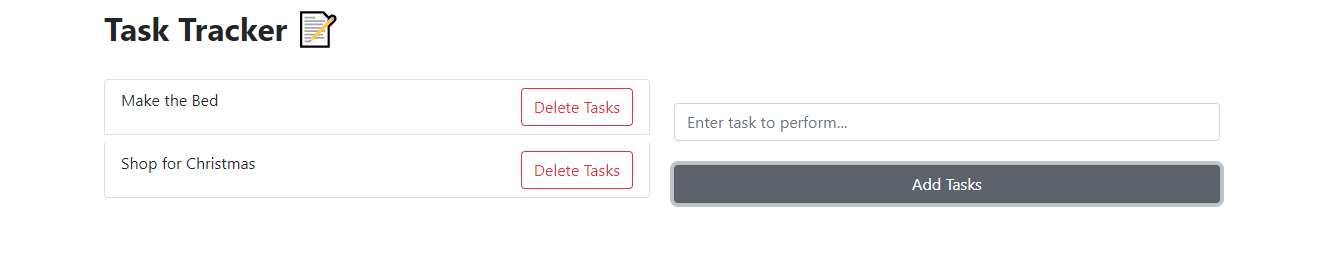
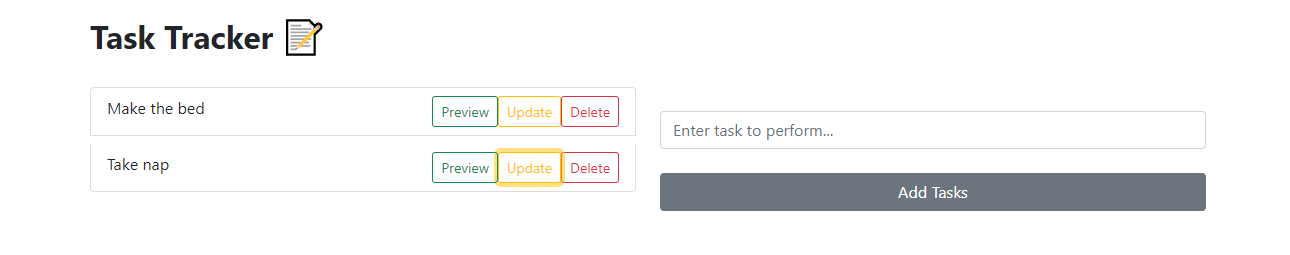
first commit

Changed region(s): [[0.062, 0.2745, 0.9612, 0.851], [0.062, 0.0275, 0.2791, 0.2196], [0.062, 0.5765, 0.2171, 0.6863]]

diff --git a/tasks/templates/unicorn/task.html b/tasks/templates/unicorn/task.html
@@ -1,9 +1,21 @@
 <div class="row">
   <div class="col-md-6">
     <section>
+      <div unicorn:loading unicorn:target="AddKey">
+        <strong>adding</strong> 
+        <div class="spinner-border"></div>
+      </div>
+
         <ul class="list-group">
           {% for task in tasks %}
-            <li class="list-group-item mb-2">{{ task.title }} <button class="btn btn-outline-danger" style="float: right;" u:click="delete_task('{{ task.id }}')">Delete Tasks</button></li> 
+            <li class="list-group-item mb-2">{{ task.title }} 
+              <button class="btn btn-outline-danger btn-sm" style="float: right;" u:click="delete_task('{{ task.id }}')">Delete </button>
+              
+              <button class="btn btn-outline-warning btn-sm" style="float: right;" u:click="update_task('{{ task.id }}')">Update </button>
+              <button class="btn btn-outline-success btn-sm" style="float: right;" u:click="preview_task('{{ task.id }}')">Preview</button>
+            </li> 
+
+
           {% empty %}
             <p>All Tasks Completed 🎉</p>
           {% endfor %}
@@ -11,14 +23,34 @@
       </section>
   </div>
   <div class="col-md-6">
+    {% if messages %}
+
+      <div class="alert alert-info alert-dismissible fade show" role="alert">
+        <ul>
+          {% for message in messages %}
+          <li style="list-style-type: none;">{{message|safe}}</li>
+          {% endfor %}
+        </ul>
+        
+        <button type="button" class="btn-close" data-bs-dismiss="alert" aria-label="Close"></button>
+      </div>
+
+ 
+  
+    {% endif %}
     <form>
         <br>
       <input type="text" class="form-control" placeholder="Enter task to perform..." u:model.defer="title">
       <br>
-      <button class="btn btn-secondary" style="min-width: 100%;" u:click.prevent="add_task">Add Tasks</button>
+      <button class="btn btn-secondary" style="min-width: 100%;" u:click.prevent="add_task" unicorn:key="AddKey">Add Tasks</button>
+
     </form>
     
+    
+    
   </div>
+
+  
 </div>
 
 

diff --git a/tasks/templates/index.html b/tasks/templates/index.html
@@ -15,11 +15,16 @@
       <div class="container">
         <br>
         <h2><strong>Task Tracker 📝</strong></h2>
+        
         <br>
 
         {% unicorn 'task' %}
 
       </div>
+
+
+      <script src="https://cdn.jsdelivr.net/npm/bootstrap@5.0.2/dist/js/bootstrap.bundle.min.js" integrity="sha384-MrcW6ZMFYlzcLA8Nl+NtUVF0sA7MsXsP1UyJoMp4YLEuNSfAP+JcXn/tWtIaxVXM" crossorigin="anonymous"></script>
+
 
     
   </body>

diff --git a/tasks/components/task.py b/tasks/components/task.py
@@ -2,6 +2,8 @@
 from django_unicorn.components import UnicornView
 from tasks.models import Task
 
+from django.contrib import messages
+
 
 class TaskView(UnicornView):
     title: str = ""
@@ -17,9 +19,34 @@ class TaskView(UnicornView):
 
         self.title = ""
 
+        messages.success(self.request, f"Successfully Added: {task.title}")
+
     def delete_task(self, id):
         try:
             task = Task.objects.get(id=id)
             task.delete()
+            messages.success(
+                self.request, f"Successfully Deleted: {task.title}")
+        except:
+            pass
+
+    def preview_task(self, id):
+        try:
+            task = Task.objects.get(id=id)
+            self.title = task.title
+
+        except:
+            pass
+
+    def update_task(self, id):
+        try:
+            task = Task.objects.get(id=id)
+
+            task.title = self.title
+
+            task.save()
+
+            self.title = ""
+
         except:
             pass

diff --git a/article.md b/article.md
@@ -2,7 +2,7 @@
 
 Developing [Single Page Applications](https://en.wikipedia.org/wiki/Single-page_application) (SPAs) are very popular in recent times with the rise of dedicated frontend frameworks like [React](https://reactjs.org/), [Vue.js](https://vuejs.org/) among others. In fact, in most cases, Django is being used as a REST API backend consumed by a dedicated frontend. However, some functionalities that this frontend framework gives like DOM manipulation without a refresh of the entire page could be made possible in Django. Technologies like [Unicorn](https://www.django-unicorn.com/docs/) which you'll learn in this tutorial helps you achieve this functionality. Therefore, you can still take advantage of the amazing things Django offers and at the same time add reactivity to your Django application.
 
-There are several benefits to using Unicorn as it saves you the time of learning a dedicated frontend framework as great SEO support since it is Django under the hood. It also works seamlessly with Django and is very easy to install.
+There are several benefits to using Unicorn as it saves you the time of learning a dedicated frontend framework, as great SEO support since it is Django under the hood. It also works seamlessly with Django and is very easy to install.
 
 According to [Unicorn](https://www.django-unicorn.com/docs/), how it works is that it makes AJAX calls in the background, and dynamically updates the DOM. In this tutorial, you'll learn how to work with Unicorn and build a full-stack reactive website in Django with no JavaScript.
 
@@ -19,7 +19,7 @@ Here's a quick look at the app you'll be building:
 
 ![Home Page](https://github.com/Samuel-2626/reactive-django/blob/main/images/homepage-2.png)
 
-You can add a new task, and delete a new task without refreshing the page, the same functionality that would be possible with Single Page Applications (SPAs).
+You can perform CRUD operations like adding, previewing, updating and deleting a task without refreshing the page, the same functionality that would be possible with Single Page Applications (SPAs).
 
 Clone down the [base](https://github.com/Samuel-2626/reactive-django/tree/base) branch from the [reactive-django](https://github.com/Samuel-2626/reactive-django) repo:
 
@@ -63,7 +63,7 @@ class Task(models.Model):
 
 ## Getting Started with Unicorn
 
-**Unicorn** has been installed as part of the dependencies under the section _project setup and overview_. However, to use Unicorn in your Django project, add it to your `INSTALLED_APPS` like so:
+**Unicorn** has been installed as part of the dependencies under the section _project setup and overview_. However, to use Unicorn in your Django project, add it to your `INSTALLED_APPS`:
 
 ```py
 INSTALLED_APPS = [
@@ -72,7 +72,7 @@ INSTALLED_APPS = [
 ]
 ```
 
-Next, update your project `urls.py` file like so:
+Next, update your project `urls.py` file:
 
 ```py
 from django.urls import path, include
@@ -90,14 +90,14 @@ Update your project `urls.py` file by adding this additional path:
 path("", views.index), # new
 ```
 
-Update your tasks' application `views.py` file like so:
+Update your tasks' application `views.py` file:
 
 ```py
 def index(request):
     return render(request, "index.html", {})
 ```
 
-Update your tasks' template `index.html` file like so:
+Update your tasks' template `index.html` file:
 
 ```html
 {% load unicorn %}
@@ -126,6 +126,12 @@ Update your tasks' template `index.html` file like so:
 
 			{% unicorn 'task' %}
 		</div>
+
+		<script
+			src="https://cdn.jsdelivr.net/npm/bootstrap@5.0.2/dist/js/bootstrap.bundle.min.js"
+			integrity="sha384-MrcW6ZMFYlzcLA8Nl+NtUVF0sA7MsXsP1UyJoMp4YLEuNSfAP+JcXn/tWtIaxVXM"
+			crossorigin="anonymous"
+		></script>
 	</body>
 </html>
 ```
@@ -139,7 +145,7 @@ Update your tasks' template `index.html` file like so:
 
 3. You loaded your first Unicorn component called `task`.
 
-> Unicorn uses `component` to provide additional interactivity to your Django application. A component has two parts, first the **Django HTML template** and second a **view class** for the backend code.
+> Unicorn uses `component` to provide additional interactivity to your Django application. A component has two parts, first the **Django HTML template** and second, a **view class** for the backend code.
 
 To create this component called `task`, in your terminal run this code:
 
@@ -166,11 +172,11 @@ Inside the `task.html`, update it with the following code:
 				<li class="list-group-item mb-2">
 					{{ task.title }}
 					<button
-						class="btn btn-outline-danger"
+						class="btn btn-outline-danger btn-sm"
 						style="float: right;"
 						u:click="delete_task('{{ task.id }}')"
 					>
-						Delete Tasks
+						Delete
 					</button>
 				</li>
 				{% empty %}
@@ -254,6 +260,153 @@ Once done, navigate to [http://127.0.0.1:8080/](http://127.0.0.1:8080/) to ensur
 ![Home Page](https://github.com/Samuel-2626/reactive-django/blob/main/images/homepage-2.png)
 
 Try adding and deleting some tasks.
+
+## Previewing and Updating Tasks
+
+To update existing tasks, it would be nice to be able to have a preview without having to type the exact task again. To achieve this, update the `task.html` with the following code, just after the delete button:
+
+```html
+...
+<button
+	class="btn btn-outline-warning btn-sm"
+	style="float: right;"
+	u:click="update_task('{{ task.id }}')"
+>
+	Update
+</button>
+<button
+	class="btn btn-outline-success btn-sm"
+	style="float: right;"
+	u:click="preview_task('{{ task.id }}')"
+>
+	Preview
+</button>
+...
+```
+
+**What's Happening Here?**
+
+1. You added two buttons called `Update` and `Preview`.
+1. These buttons are bound to the backend function `update_task` and `preview_task`, while taking the task `id` as an attribute, to uniquely identify each task.
+
+Also, inside the `task.py`, update it with the following code, after the delete function:
+
+```py
+...
+def preview_task(self, id):
+    try:
+        task = Task.objects.get(id=id)
+        self.title = task.title
+
+    except:
+        pass
+
+def update_task(self, id):
+    try:
+        task = Task.objects.get(id=id)
+
+        task.title = self.title
+
+        task.save()
+
+        self.title = ""
+
+    except:
+        pass
+```
+
+### Explaining the Functions
+
+1. The `preview_task` method takes in the task `id`, then gets the task `title` and sets it to the `title` variable.
+1. The `update_task` method also takes in the task `id`, then gets the updated `title` from the `title` variable, and finally updates the task `title` model.
+
+## Improving the User Experience
+
+In this section, you'll be adding two functionalities to improve the application. The first is a success message on every task added to the DOM. Unicorn as support for using Django messages, in other words, they work the same.
+
+Update the `task.html` with the following code, just before the beginning of the form that contains the `Add Task` button:
+
+```html
+{% if messages %}
+
+<div class="alert alert-info alert-dismissible fade show" role="alert">
+	<ul>
+		{% for message in messages %}
+		<li style="list-style-type: none;">{{message|safe}}</li>
+		{% endfor %}
+	</ul>
+
+	<button
+		type="button"
+		class="btn-close"
+		data-bs-dismiss="alert"
+		aria-label="Close"
+	></button>
+</div>
+{% endif %}
+```
+
+Also, inside the `task.py`, update the `add_task` and `delete_task` like so:
+
+```py
+...
+def add_task(self):
+        if self.title != "":
+            task = Task(title=self.title)
+            task.save()
+
+        self.title = ""
+
+        messages.success(self.request, f"Successfully Added: {task.title}")
+
+def delete_task(self, id):
+        try:
+            task = Task.objects.get(id=id)
+            task.delete()
+            messages.success(
+                self.request, f"Successfully Deleted: {task.title}")
+        except:
+            pass
+...
+```
+
+Don't forget the imports:
+
+```py
+from django.contrib import messages
+```
+
+**What's Happening Here?**
+
+Once the `add_task` method is called and it's successful, inside the component a success message will be shown, as the message would be added to the request. The same also applies the the `delete_task` method.
+
+The second functionality entails adding a message while the Unicorn performs the AJAX requests and before the DOM is updated. It can also refer to as `loading states`.
+
+Therefore, Update the `task.html` with the following code, just before the `ul` tag that loads all `tasks`:
+
+```html
+<div unicorn:loading unicorn:target="AddKey">
+	<strong>adding</strong>
+	<div class="spinner-border"></div>
+</div>
+```
+
+Also, update the `Add Tasks` button like so:
+
+```html
+<button
+	class="btn btn-secondary"
+	style="min-width: 100%;"
+	u:click.prevent="add_task"
+	unicorn:key="AddKey"
+>
+	Add Tasks
+</button>
+```
+
+**What's Happening Here?**
+
+Unicorn as the `unicorn:loading` attribute, which only is visible when an operation is in process. Here, a spinner would be shown whenever the `add_task` method is in action.
 
 ## Conclusion
 
